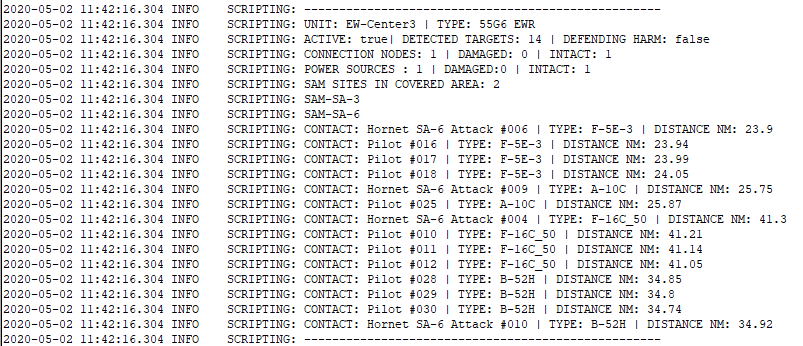
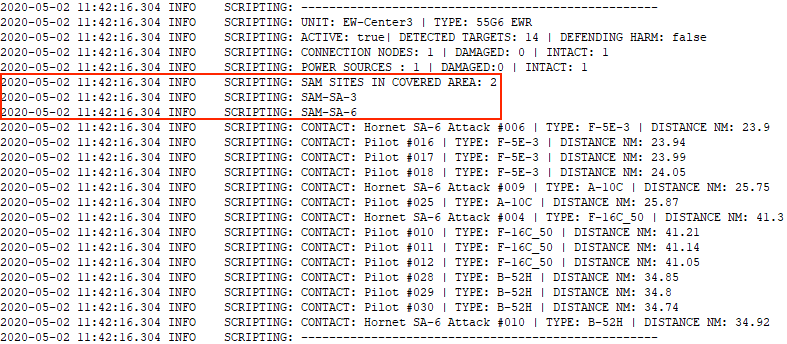
updated doc

diff --git a/README.md b/README.md
@@ -584,8 +584,12 @@ The result will be that the SAM site won't go live. This bug was observed in DCS
 To get a rough idea you can look at the range circles in the mission editor. However these ranges are greater than the actual in game detection ranges of an EW radar or SAM site.
 The following screen shot shows the range of the 1L13 EWR. The mission editor shows a range of 64 NM (nautical miles) where as the in game range is 43 NM.
 
-In this example the SAM site to the north east would nod be in range of the EW radar, therefore it would go in to autonomous mode once the mission starts. 
+In this example the SAM site to the north east would not be in range of the EW radar, therefore it would go in to autonomous mode once the mission starts. 
 ![1L13 EWR range differences](https://github.com/walder/Skynet-IADS/raw/master/images/ew-detection-distance-example.png)  
+
+Set the debug options ```samSiteStatusEnvOutput``` and ```earlyWarningRadarStatusEnvOutput``` to get detailed information on every SAM site and EW radar.
+In the area marked by the red box you will see which SAM sites are in range of SAM site or EW radar.
+![SAM sites in covered area](https://github.com/walder/Skynet-IADS/raw/master/images/radar-emitter-status-dcs-log.png) 
 
 
 # Thanks
